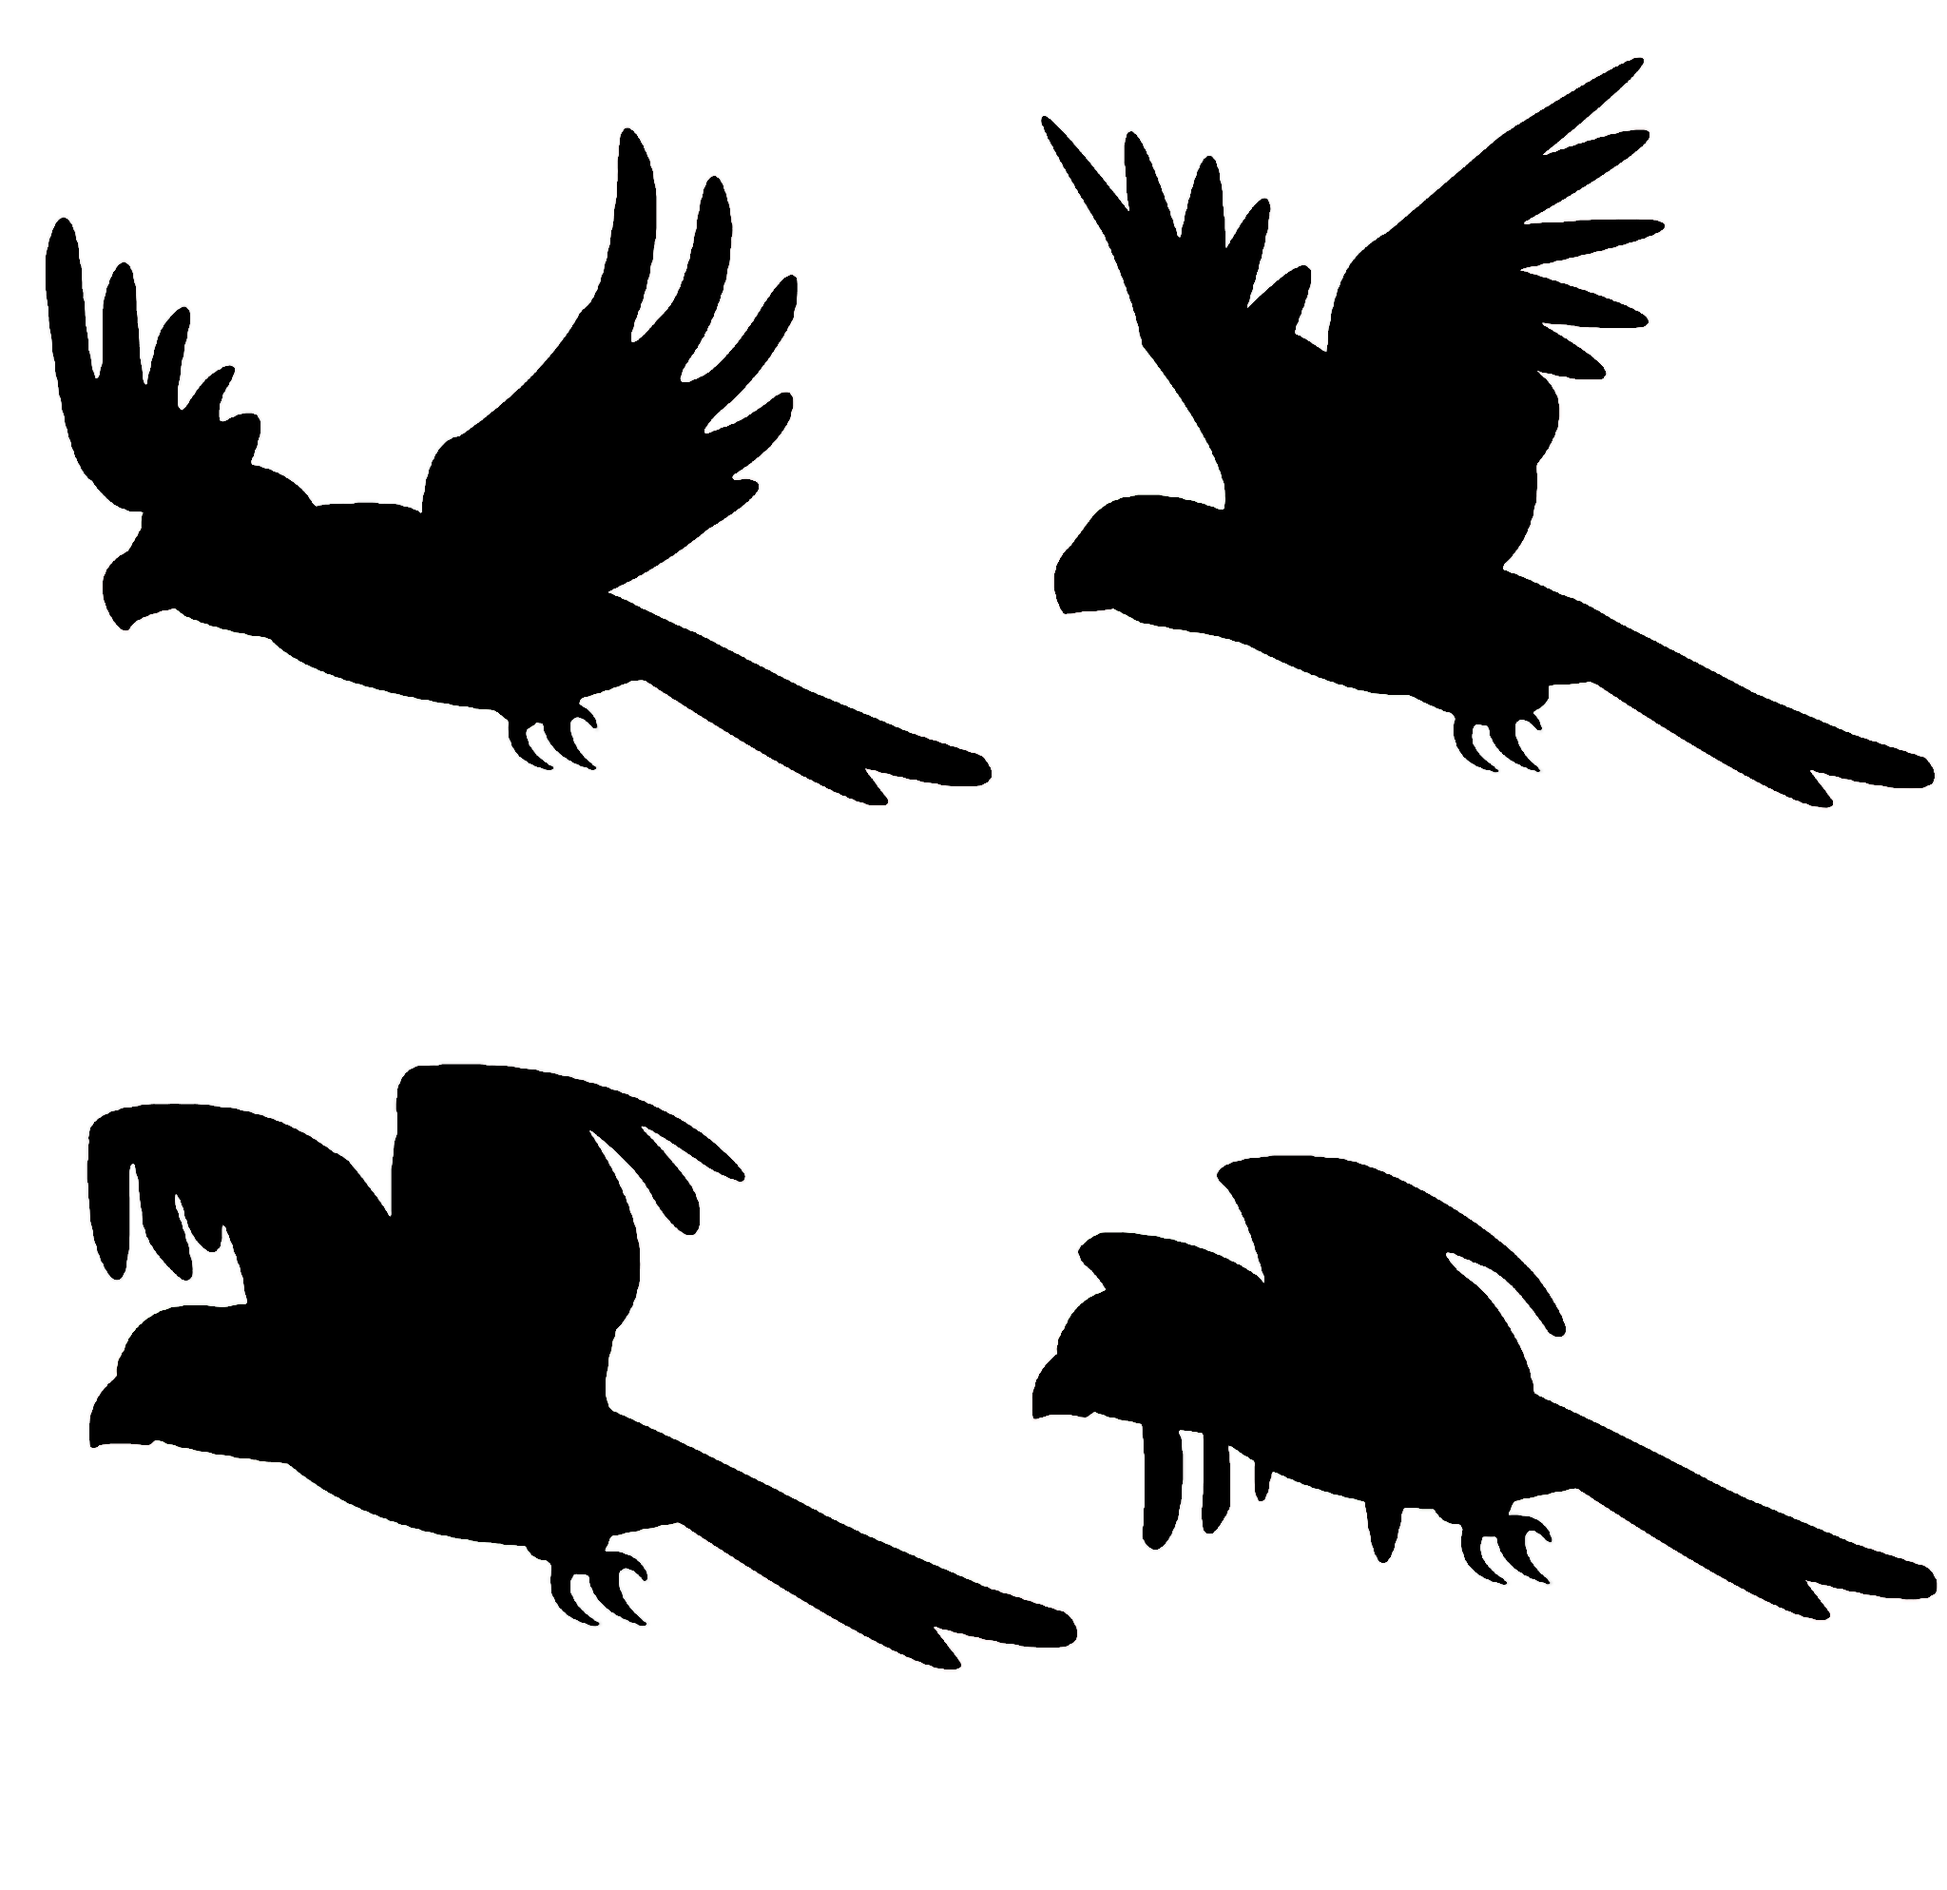
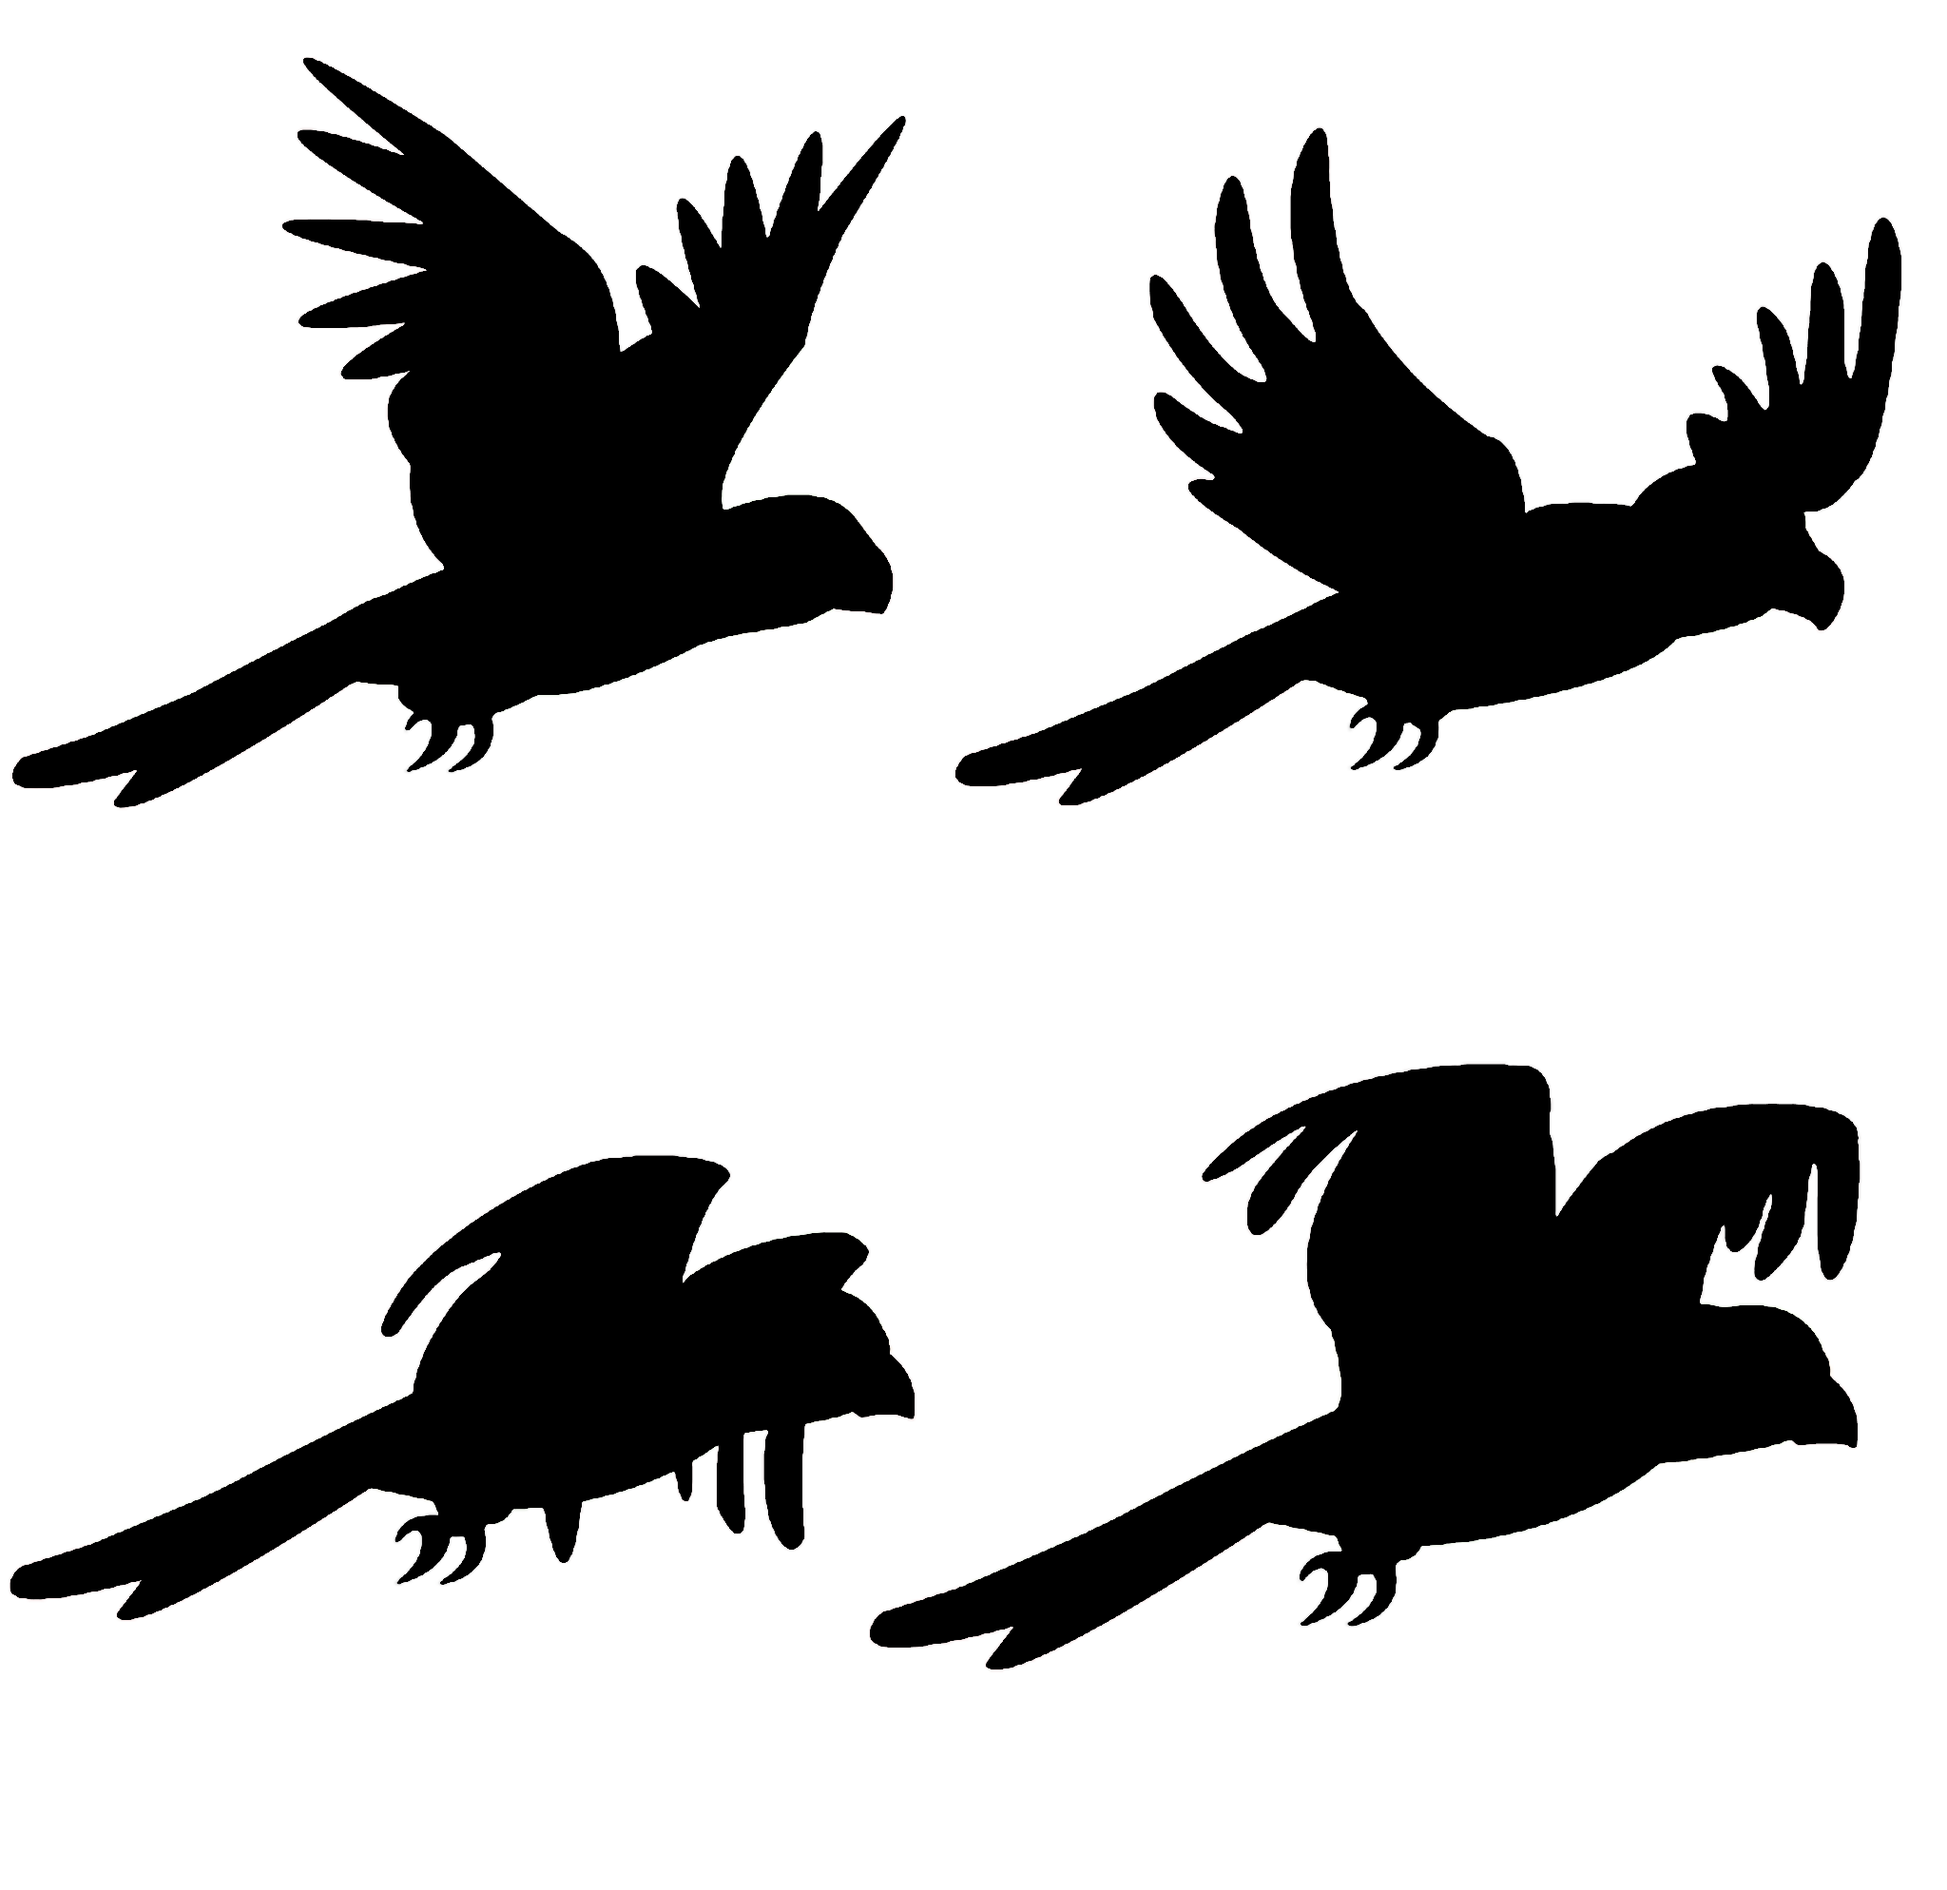
fixes to notes and prompt and images and flip

Changed region(s): [[0.0, 0.0312, 1.0, 0.4366], [0.0, 0.5614, 1.0, 0.9044]]

diff --git a/stable_diffusion/dream.py b/stable_diffusion/dream.py
@@ -5,14 +5,38 @@ import sys
 from PIL import Image
 import os
 
+# We are trying to mix image input and prompt input to create unique units. 
+# Currently Using a mask layer you get unwanted rigidity... with some more knowledge I beleve a mask layer or layers can be leveraged for unit "traits" or "level"
+# One image action at a time will 
 # CONFIG ====================
-STABLE_DIFFUSION_PROMPT_GROUND = "facing left , Saber-toothed cat , detailed drawing , 32bit video game , cat walking cycle animation sheet"
-STABLE_DIFFUSION_PROMPT_AIR = "precisely drawn illustration, 4k, drawing of 4 colorful quetzal bird eagle vulture animals, identical, facing left, flying through the air, mid flight, super sharp talons, claws, side view, mayan art style, Monarobot style, high-definition, sharp lines, catching prey"
+STABLE_DIFFUSION_PROMPT_GROUND = " 16bit Large Cat , spots , stripes , booleans , ints , fangs , cat with spots Running Animation Drawing , detailed drawing , 16 bit video game , cat walking cycle animation sheet , animation drawing sheet , walking cat animation sheet , detailed linework , replicate shape"
+STABLE_DIFFUSION_PROMPT_AIR = " bird , red markings , red heads , flapping animation cycle sheet , precisely drawn , 16bit style , detailed drawing , eagle vulture owl , flying animation cycle , mid flight , super sharp talons, claws, side view, mayan art style, Monarobot style, high-definition, sharp lines, catching prey , animation drawing , flying eagle animation sheet , detailed linework , replicate shape"
+
+# ===========================
 STABLE_DIFFUSION_WIDTH=768
 STABLE_DIFFUSION_HEIGHT=768
-STABLE_DIFFUSION_PSTRENGTH=0.8
-STABLE_DIFFUSION_ISTEPS=50
-STABLE_DIFFUSION_GSCALE=7.5
+
+# ===========================
+#PSTRENGTH can be set between .001-1
+# (.001-.655) essentially replicates our init_image  
+# (.666-.955) returns more unpredictable results 
+# (.966-1) returns unique units not speifically following the init_image 
+STABLE_DIFFUSION_PSTRENGTH=.777 
+
+# ===========================
+#ISTEPS can be set between 1-250
+# Higher numbers take longer to process / not specifically better resuts
+# 100 Below seems to get less unique results
+# 160 Can get great results and then poor results. 
+# 200 Seems to return better consistant unique results 
+STABLE_DIFFUSION_ISTEPS=200 
+
+# ===========================
+#GSCALE can be set between 1-20
+# 1-10 will follow init_image more 
+# 10-20 returns more unique units
+STABLE_DIFFUSION_GSCALE=16 
+
 # ===========================
 
 model = replicate.models.get("stability-ai/stable-diffusion")
@@ -46,7 +70,7 @@ def preview_new_unit(type):
 def dream_new_unit(type):
     if type == 'air': 
         prompt = STABLE_DIFFUSION_PROMPT_AIR 
-        init_image = 'stable_diffusion/init_image/bat.png'
+        init_image = 'stable_diffusion/init_image/bird2.png'
         # mask = 'stable_diffusion/init_image/bird2mask.png'
     else: 
         prompt = STABLE_DIFFUSION_PROMPT_GROUND

diff --git a/ai_unit.py b/ai_unit.py
@@ -8,7 +8,7 @@ class AIUnit(pygame.sprite.Sprite):
 
         self.type = type
         self.image_path = image_path
-        self.source_image = pygame.image.load(image_path).convert_alpha()
+        self.source_image = pygame.transform.flip(pygame.image.load(image_path).convert_alpha(), True , False)
         self.velocity = velocity
 
         self.frames = [

diff --git a/ai_unit_import.py b/ai_unit_import.py
@@ -71,6 +71,7 @@ def import_unit(type='air', unit_no = None):
     for image_file in queue:
         img = Image.open(image_file)
         img = img.convert("RGBA")
+        
 
         # convert the background to alpha 
         datas = img.getdata()
